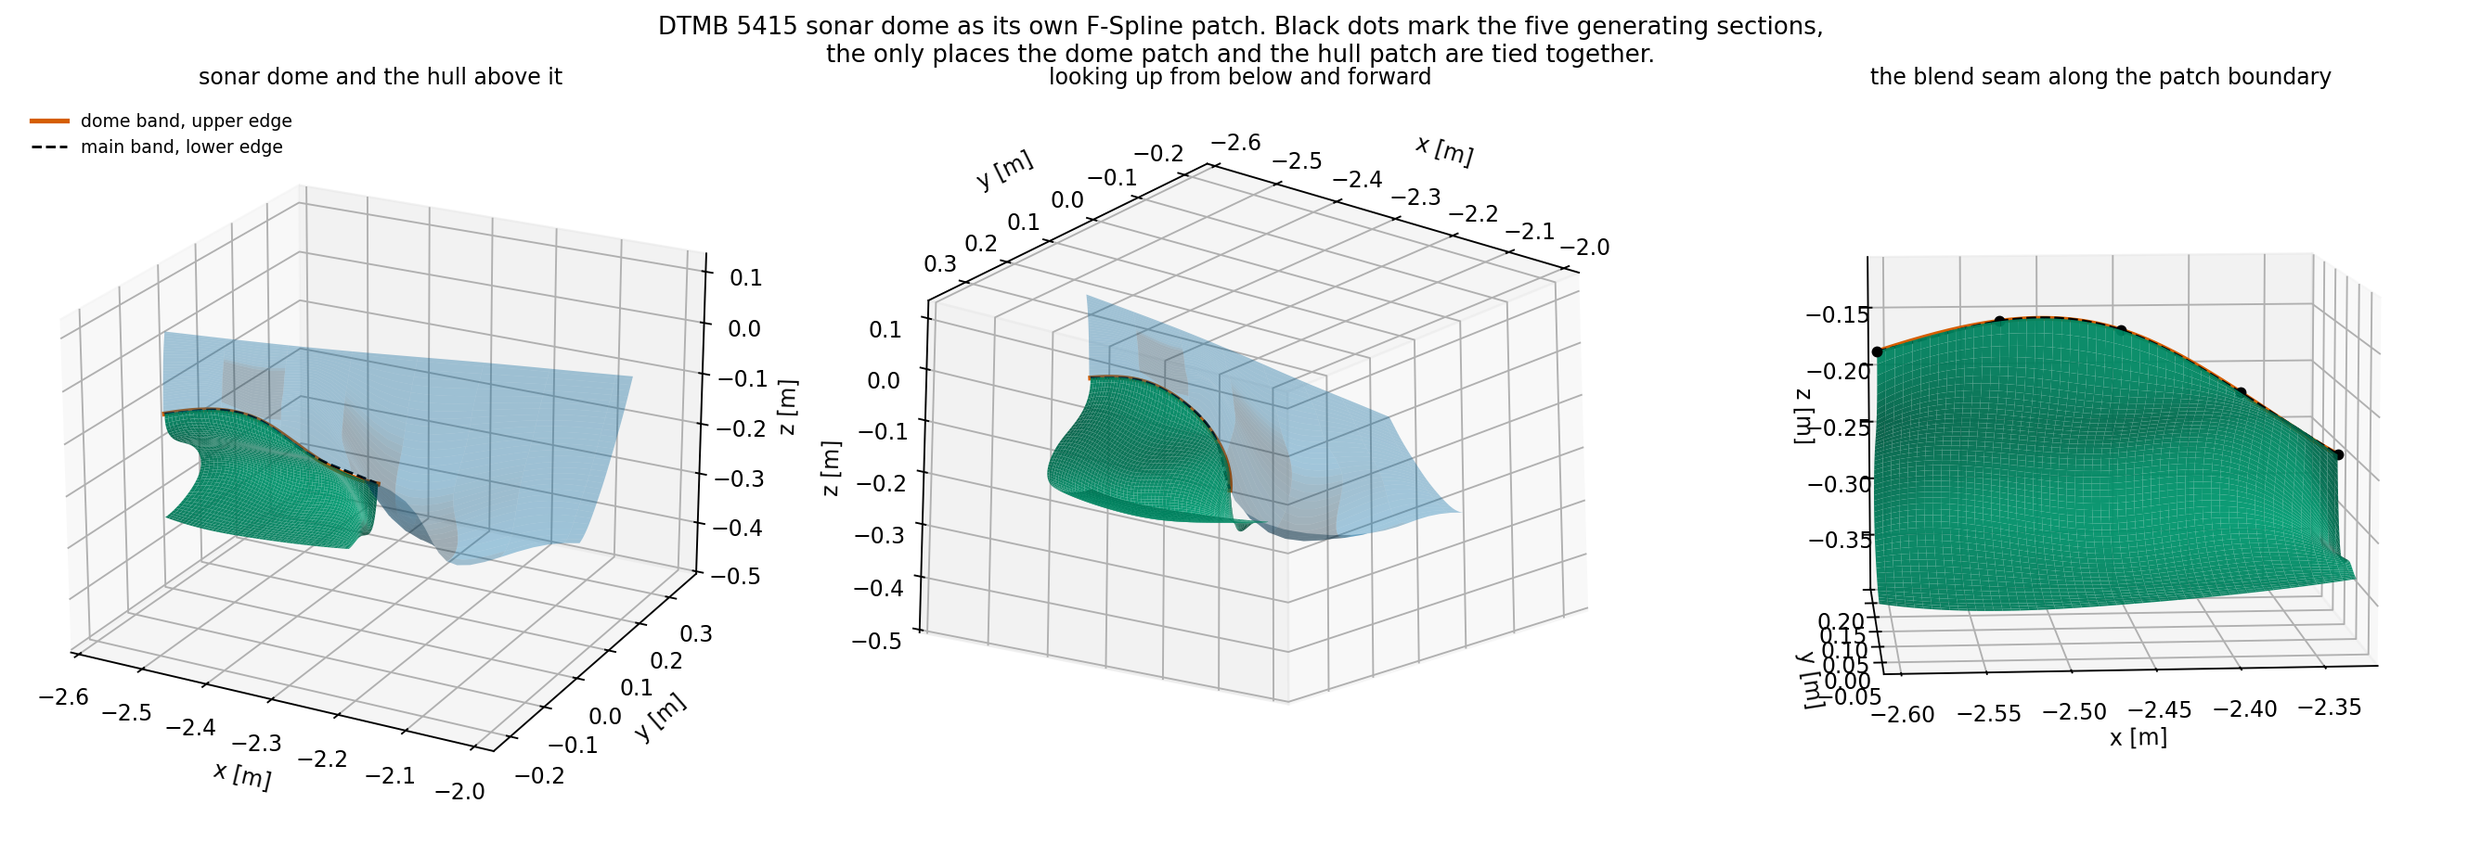
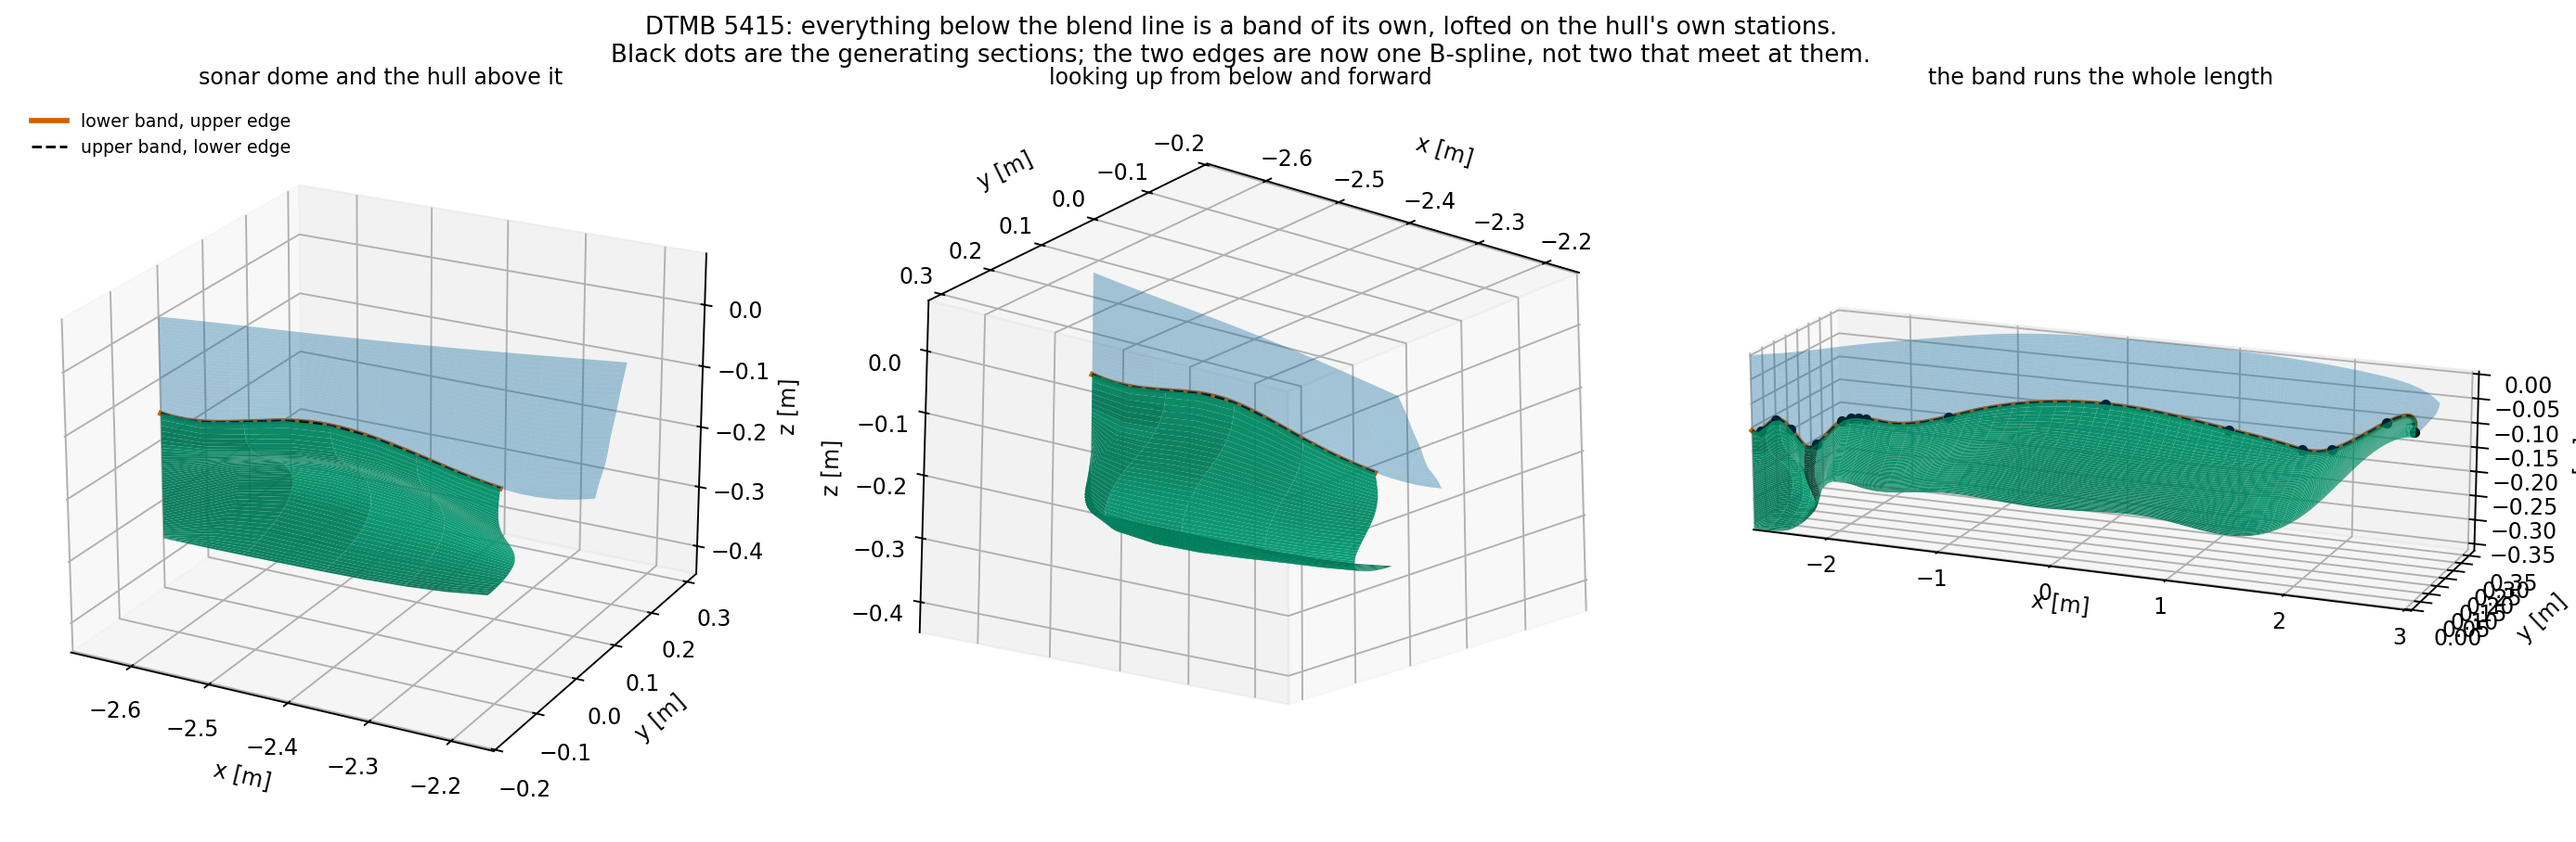
Redraw the band figures for a full-length lower band
The section panels now run past the dome closure, so the band is visible
continuing where the neck no longer exists, and the 3D view adds a
whole-hull panel. Equal aspect over 5.7 m flattens the hull to a line, so
that panel is stretched across the beam and depth instead.

Measured on the v9 cache, the seam the previous construction carried is
gone: the two edges agree to 0.000 mm at every one of 4000 samples, where
a band lofted on its own five stations drifted to 7.45 mm between them.

Claude-Session: https://claude.ai/code/session_01LU2QNUcyNtY9AJVwHKXnsR

diff --git a/examples/dtmb_5415_dome_3d.py b/examples/dtmb_5415_dome_3d.py
@@ -1,15 +1,16 @@
-"""3D view of the reconstructed sonar dome, and the seam at its patch boundary.
+"""3D view of the hull's lower band and the blend line it meets the hull on.
 
-The dome is a partial-length patch carried below a blend line. Within a
-section it meets the main band by construction: both bands are built from the
-same blend-point and blend-tangent expressions, so position and slope agree
-exactly rather than by a fitted compromise.
+The blend line runs the whole length of the hull: the neck above the sonar
+dome where there is one, and a fixed fraction of the local depth aft of it.
+Everything below it is a band of its own.
 
-Along the loft they are two separate surfaces. The main hull interpolates
-every generating section; the dome interpolates only those that carry a band,
-with its own knot vector and its own local parameterization. Nothing ties
-them between sections, so the panels here draw the seam and report how far
-apart the two edges actually run.
+The two bands meet twice over. Within a section they are built from the same
+blend-point and blend-tangent expressions, so position and slope agree
+exactly rather than by a fitted compromise. Along the loft, because the band
+now exists at every station, it is lofted on the hull's own stations,
+parameters and x coordinates -- so the shared edge is the same B-spline on
+both surfaces, not two curves that happen to agree where sections fall. The
+script reports the distance between them as a check.
 
 Surfaces are evaluated from the cached control nets rather than from the
 sampled meshes, so the pictures show the geometry itself.
@@ -78,10 +79,14 @@ def main() -> None:
     dome_top = _edge(cache, "dome", 1.0)
     main_low = _edge(cache, "underwater", 0.0)
 
-    x_lo, x_hi = dome[:, :, 0].min(), dome[:, :, 0].max()
-    # The stretch of main hull alongside the dome, plus a little aft of it.
-    keep = (main[0, :, 0] >= x_lo - 0.02) & (main[0, :, 0] <= x_hi + 0.35)
+    # The bulb itself, for the close views.
+    bulb_x = dome[:, :, 0].min() + 0.45
+    x_lo, x_hi = dome[:, :, 0].min(), bulb_x
+    keep = (main[0, :, 0] >= x_lo - 0.02) & (main[0, :, 0] <= x_hi + 0.10)
     main_near = main[:, keep]
+    dome_keep = (dome[0, :, 0] >= x_lo - 1.0e-9) & (dome[0, :, 0] <= x_hi)
+    dome_near = dome[:, dome_keep]
+    stations = np.asarray(cache["section_stations"], dtype=float)
 
     dome_colour, main_colour, seam_colour = "#009e73", "#0072b2", "#d55e00"
     figure = plt.figure(figsize=(16.5, 5.4))
@@ -89,50 +94,59 @@ def main() -> None:
     views = [
         ("sonar dome and the hull above it", 22, -62),
         ("looking up from below and forward", -18, -128),
-        ("the blend seam along the patch boundary", 8, -95),
+        ("the band runs the whole length", 16, -68),
     ]
     for index, (title, elev, azim) in enumerate(views):
         axis = figure.add_subplot(1, 3, index + 1, projection="3d")
-        if index < 2:
-            axis.plot_surface(
-                main_near[:, :, 0], main_near[:, :, 1], main_near[:, :, 2],
-                color=main_colour, alpha=0.35, linewidth=0.0, shade=True,
-                rstride=2, cstride=4,
-            )
+        upper = main if index == 2 else main_near
+        lower = dome if index == 2 else dome_near
         axis.plot_surface(
-            dome[:, :, 0], dome[:, :, 1], dome[:, :, 2],
+            upper[:, :, 0], upper[:, :, 1], upper[:, :, 2],
+            color=main_colour, alpha=0.35, linewidth=0.0, shade=True,
+            rstride=2, cstride=4,
+        )
+        axis.plot_surface(
+            lower[:, :, 0], lower[:, :, 1], lower[:, :, 2],
             color=dome_colour, alpha=0.95, linewidth=0.0, shade=True,
             rstride=1, cstride=2,
         )
-        band = main_low[
-            (main_low[:, 0] >= x_lo - 1.0e-9) & (main_low[:, 0] <= x_hi + 1.0e-9)
-        ]
-        axis.plot(dome_top[:, 0], dome_top[:, 1], dome_top[:, 2],
-                  color=seam_colour, linewidth=2.2, label="dome band, upper edge")
+        span = (dome_top[:, 0] >= lower[:, :, 0].min() - 1.0e-9) & (
+            dome_top[:, 0] <= lower[:, :, 0].max() + 1.0e-9
+        )
+        axis.plot(dome_top[span, 0], dome_top[span, 1], dome_top[span, 2],
+                  color=seam_colour, linewidth=2.4, label="lower band, upper edge")
+        band = main_low[span]
         axis.plot(band[:, 0], band[:, 1], band[:, 2],
                   color="black", linewidth=1.2, linestyle="--",
-                  label="main band, lower edge")
+                  label="upper band, lower edge")
         if index == 2:
-            for station in (0.012, 0.025, 0.038, 0.051, 0.063):
-                length = float(cache["length"])
-                origin = float(cache["coordinate_origin"])
-                x = origin - 0.5 * length + length * station
+            length = float(cache["length"])
+            origin = float(cache["coordinate_origin"])
+            for station in stations:
+                x = origin - 0.5 * length + length * float(station)
                 j = int(np.argmin(np.abs(dome_top[:, 0] - x)))
-                axis.scatter(*dome_top[j], color="black", s=16, zorder=6)
+                axis.scatter(*dome_top[j], color="black", s=14, zorder=6)
         axis.view_init(elev=elev, azim=azim)
         axis.set_title(title, fontsize=10)
         axis.set_xlabel("x [m]"); axis.set_ylabel("y [m]"); axis.set_zlabel("z [m]")
-        pts = dome.reshape(-1, 3) if index == 2 else np.concatenate(
-            [dome.reshape(-1, 3), main_near.reshape(-1, 3)]
-        )
-        _equal_aspect(axis, pts)
+        pts = np.concatenate([lower.reshape(-1, 3), upper.reshape(-1, 3)])
+        if index == 2:
+            # Equal aspect over the whole 5.7 m hull flattens it to a line, so
+            # the full-length view is stretched across the beam and depth.
+            axis.set_box_aspect((3.4, 1.0, 0.9))
+            for setter, column in (
+                (axis.set_xlim, 0), (axis.set_ylim, 1), (axis.set_zlim, 2)
+            ):
+                setter(pts[:, column].min(), pts[:, column].max())
+        else:
+            _equal_aspect(axis, pts)
         if index == 0:
             axis.legend(loc="upper left", fontsize=8, frameon=False)
 
     figure.suptitle(
-        "DTMB 5415 sonar dome as its own F-Spline patch. Black dots mark the five "
-        "generating sections,\nthe only places the dome patch and the hull patch are "
-        "tied together.",
+        "DTMB 5415: everything below the blend line is a band of its own, lofted on "
+        "the hull's own stations.\nBlack dots are the generating sections; the two "
+        "edges are now one B-spline, not two that meet at them.",
         fontsize=11,
     )
     figure.tight_layout()
@@ -140,11 +154,8 @@ def main() -> None:
     figure.savefig(arguments.output, dpi=170, bbox_inches="tight")
     print(f"wrote {arguments.output}")
 
-    band = main_low[
-        (main_low[:, 0] >= x_lo - 1.0e-9) & (main_low[:, 0] <= x_hi + 1.0e-9)
-    ]
     gap = np.linalg.norm(
-        dome_top[:, None, :] - band[None, :, :], axis=2
+        dome_top[:, None, :] - main_low[None, :, :], axis=2
     ).min(axis=1)
     print(f"seam gap: max {1.0e3 * gap.max():.3f} mm, mean {1.0e3 * gap.mean():.3f} mm")
 

diff --git a/examples/dtmb_5415_dome_and_transom.py b/examples/dtmb_5415_dome_and_transom.py
@@ -33,7 +33,9 @@ from lsdo_geo.validation import (
     load_dtmb_5415,
 )
 
-DOME_STATIONS = (0.012, 0.026, 0.042, 0.058, 0.070, 0.090)
+# Through the dome and out past its closure, so the panels show the band
+# continuing where the neck no longer exists.
+DOME_STATIONS = (0.012, 0.032, 0.052, 0.072, 0.100, 0.150)
 
 
 def _save(figure: plt.Figure, path: Path) -> None:
@@ -132,6 +134,7 @@ def main() -> None:
                 linewidth=1.5, label="sonar-dome band",
             )
             # The blend point is where the two bands meet.
+            # The blend point is the top of the lower band.
             axis.plot(
                 dome_section[-1, 1], dome_section[-1, 2], "o", color="#d55e00",
                 markersize=4.5, zorder=5, label="blend point",
@@ -152,8 +155,9 @@ def main() -> None:
         bbox_to_anchor=(0.5, -0.06),
     )
     figure.suptitle(
-        "DTMB 5415 sonar dome: the bulb is a separate F-Spline band below a "
-        "blend line,\njoined to the main band with matching position and tangent",
+        "DTMB 5415: the blend line runs the whole hull -- the neck above the sonar "
+        "dome where there is one,\nand a fixed fraction of the local depth aft of "
+        "it. Everything below it is a band of its own.",
         fontsize=11,
     )
     figure.tight_layout()
